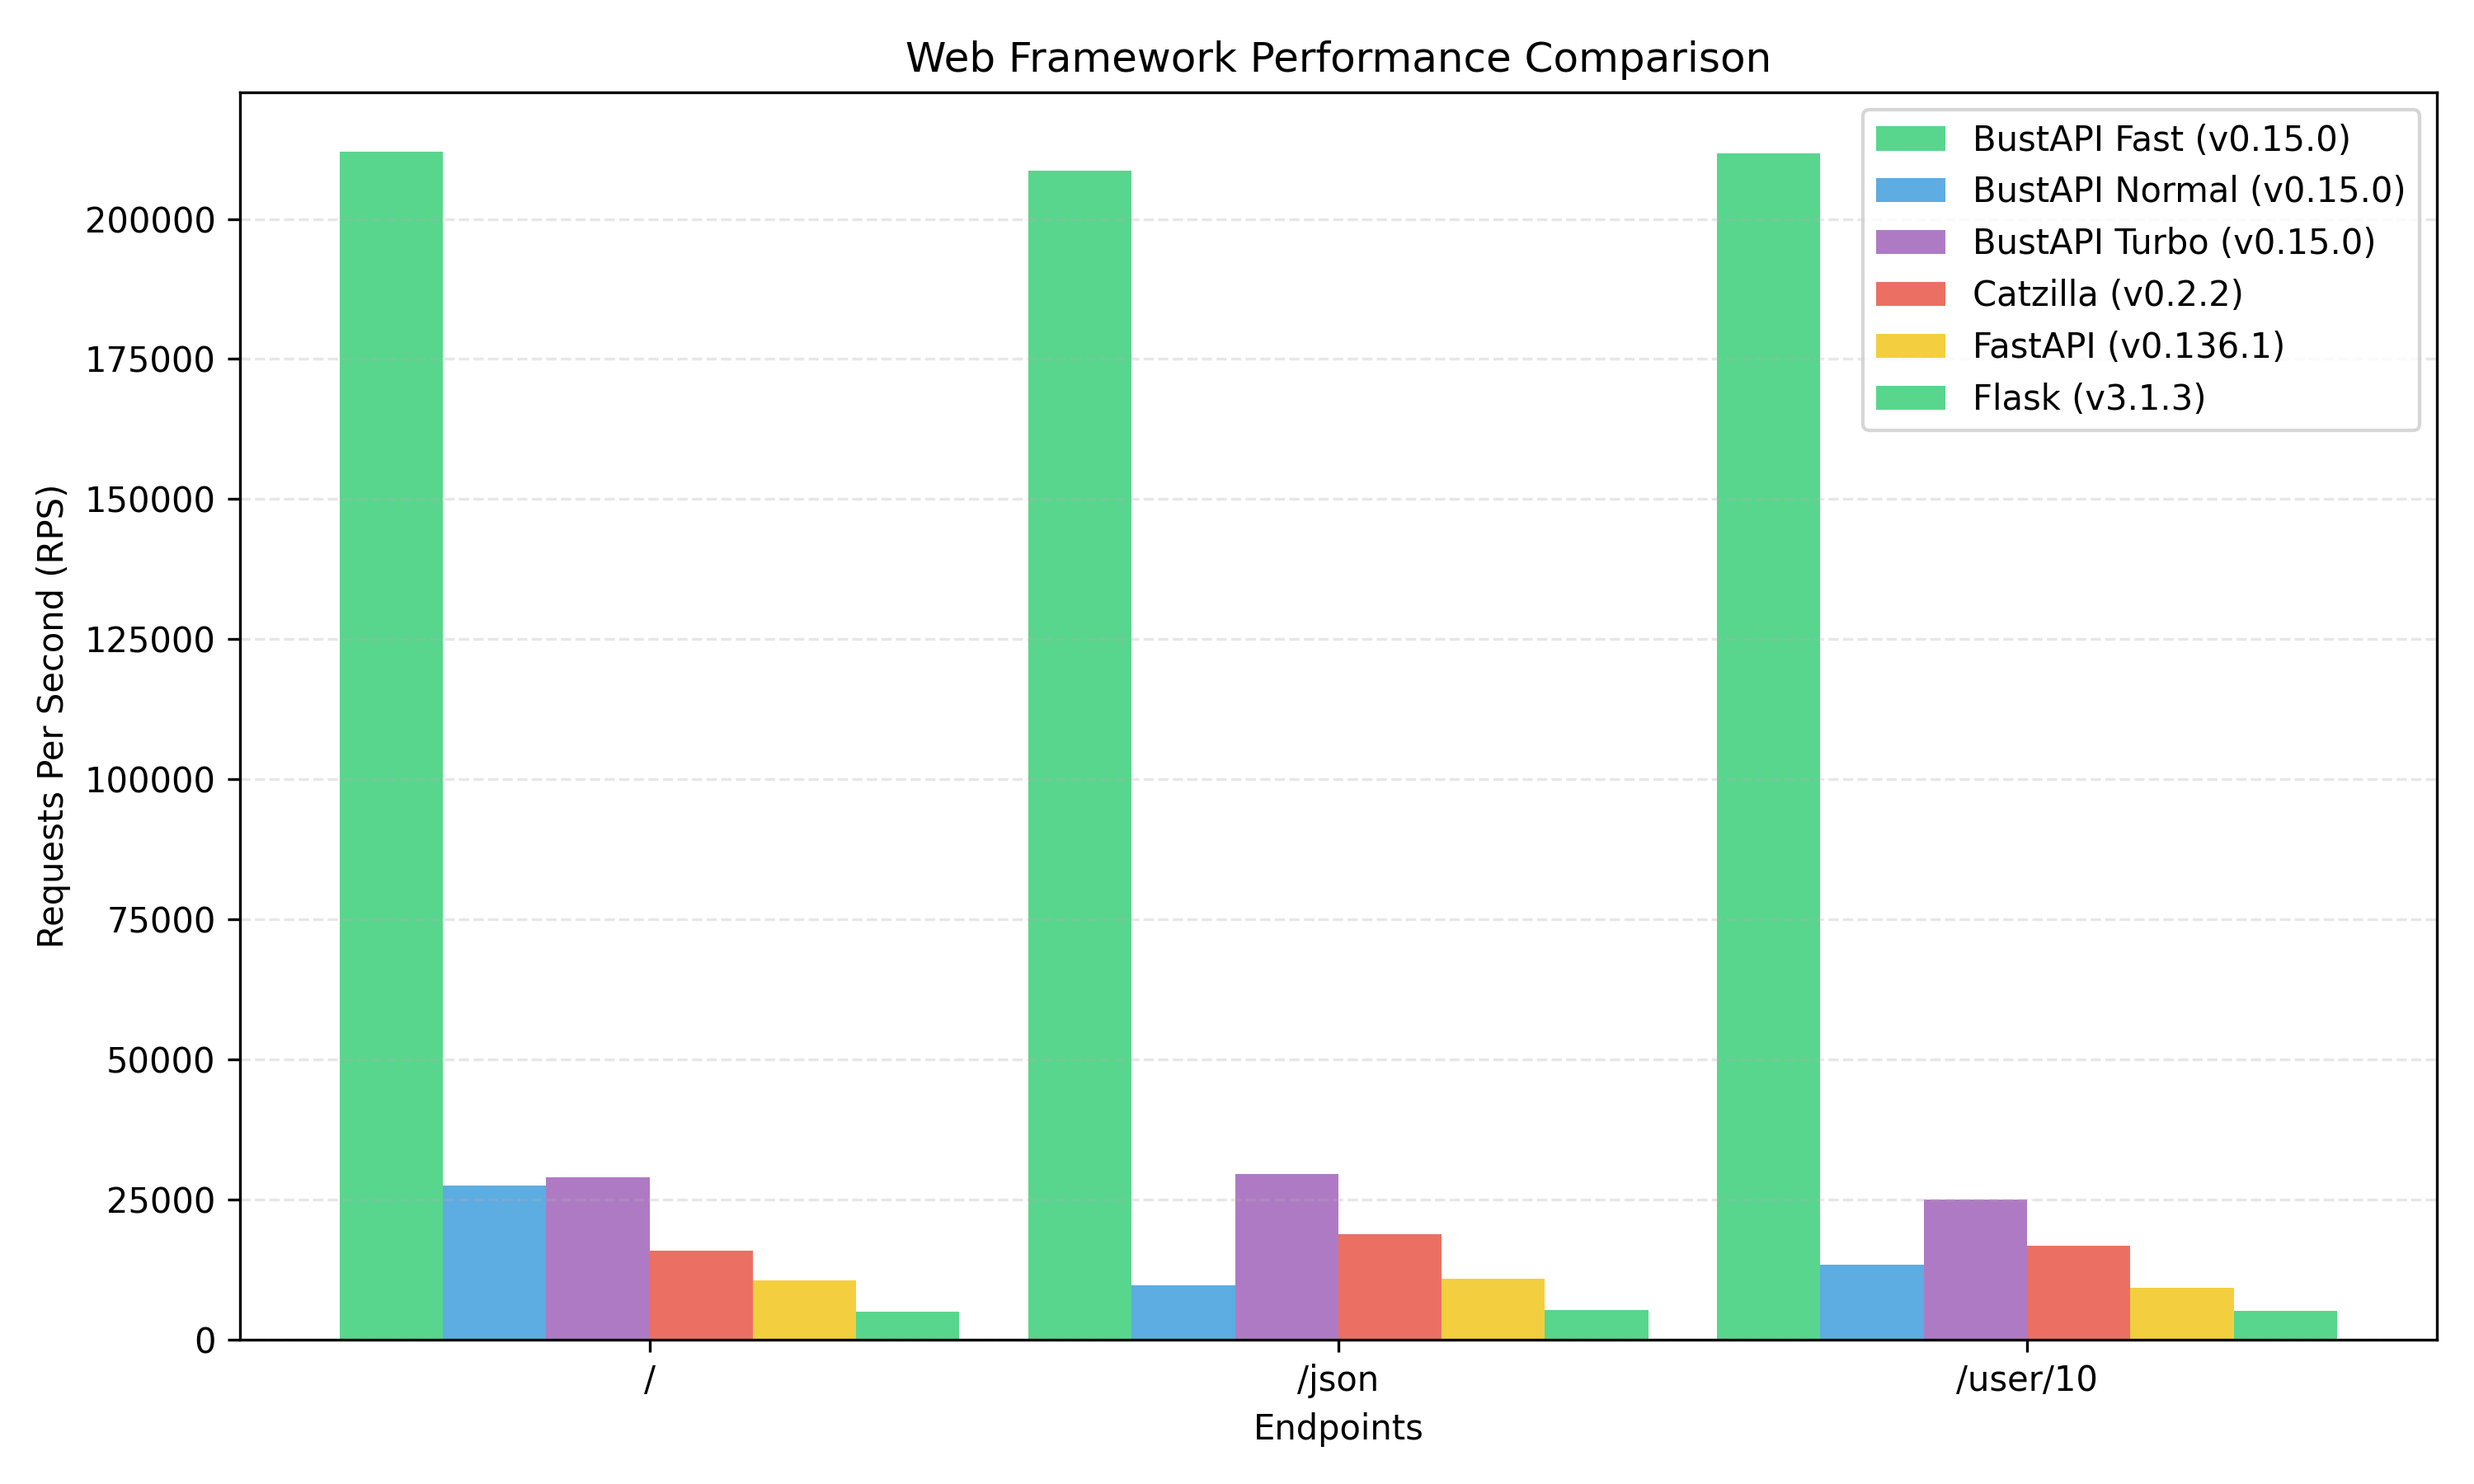
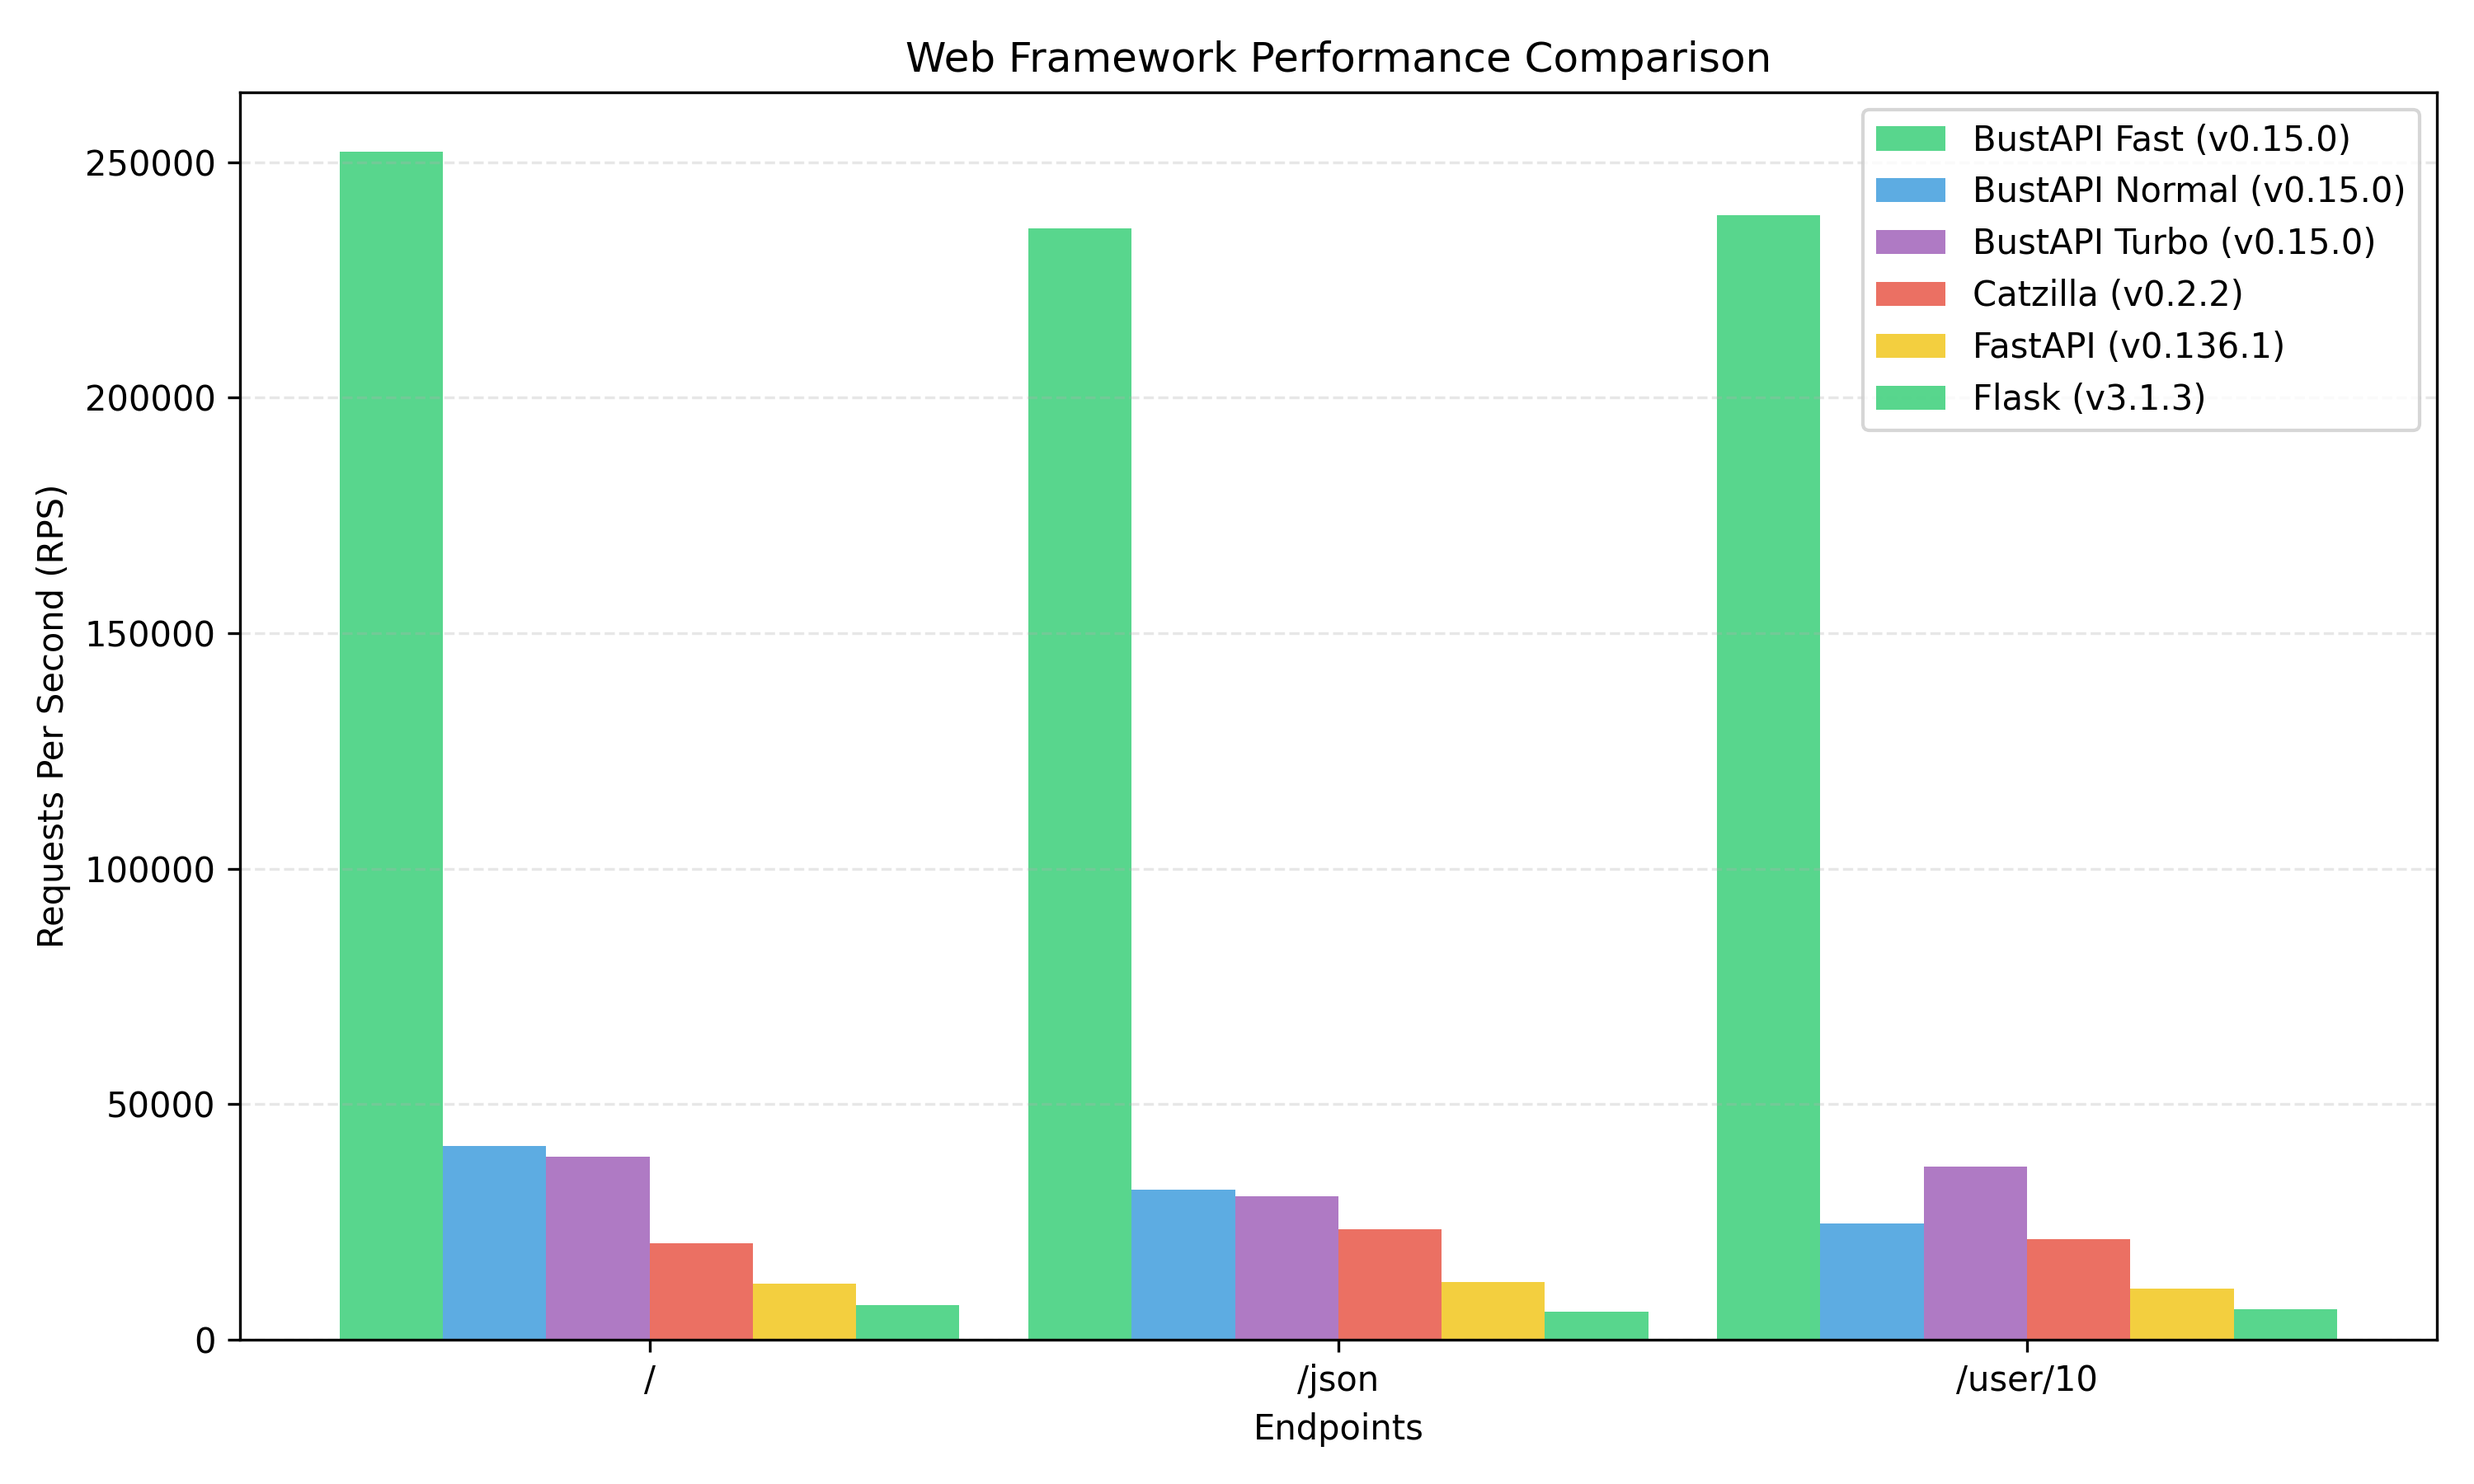
bench: add turbomax baseline and scaling test benchmarks

diff --git a/benchmarks/run_turbomax_baseline.py b/benchmarks/run_turbomax_baseline.py
@@ -3,75 +3,56 @@ import time
 import requests
 import os
 import signal
+import sys
 
-# 1. Start the app
-print("Starting Turbomax App...")
-app_process = subprocess.Popen([".venv/bin/python", "benchmarks/turbomax_app.py"], stdout=subprocess.DEVNULL, stderr=subprocess.DEVNULL)
-time.sleep(2) # wait for app to start
+# Turbomax Benchmark Runner v2.0
+print("Starting Turbomax App (Optimized)...")
+env = os.environ.copy()
+env["PYTHONPATH"] = "."
+app_process = subprocess.Popen(
+    [sys.executable, "benchmarks/turbomax_app.py"], 
+    stdout=subprocess.DEVNULL, 
+    stderr=subprocess.DEVNULL,
+    env=env
+)
+time.sleep(2)
 
 try:
-    # 2. Get JWT token
-    print("Logging in to get JWT token...")
+    print("Authenticating...")
     session = requests.Session()
+    resp = session.post("http://127.0.0.1:8080/login")
     
-    # Retry mechanism
-    max_retries = 10
-    resp = None
-    for i in range(max_retries):
-        try:
-            resp = session.post("http://127.0.0.1:8080/login")
-            break
-        except requests.exceptions.ConnectionError:
-            print(f"Waiting for app to start... (Attempt {i+1}/{max_retries})")
-            time.sleep(1)
-            
-    if not resp:
-        raise Exception("Failed to connect to app")
+    if not resp.ok:
+        raise Exception(f"Login failed: {resp.status_code}")
         
     cookies = resp.cookies.get_dict()
     cookie_header = "; ".join([f"{k}={v}" for k, v in cookies.items()])
-    print(f"Cookie: {cookie_header}")
+    print(f"Authentication successful. Token acquired.")
+
+    def run_wrk(name, url):
+        print(f"\n>>> Running Benchmark: {name}")
+        print(f"Target: {url}")
+        wrk_cmd = [
+            "wrk", "-t2", "-c10", "-d15s",
+            "-H", f"Cookie: {cookie_header}",
+            url
+        ]
+        res = subprocess.run(wrk_cmd, capture_output=True, text=True)
+        print(res.stdout)
+        return f"\n=== {name} ===\n{res.stdout}"
 
     results = []
-
-    # 3a. Run wrk on /api/business_logic (jsonify route)
-    print("\n=== Route 1: /api/business_logic (jsonify) ===")
-    wrk_cmd = [
-        "wrk",
-        "-t2",
-        "-c10",
-        "-d20s",
-        "-H", f"Cookie: {cookie_header}",
-        "http://127.0.0.1:8080/api/business_logic?sort_by=name"
-    ]
-    result = subprocess.run(wrk_cmd, capture_output=True, text=True)
-    print(result.stdout)
-    results.append("=== Route 1: /api/business_logic (jsonify) ===\n")
-    results.append(result.stdout)
-
-    # 3b. Run wrk on /api/business_logic_raw (raw dict)
-    print("\n=== Route 2: /api/business_logic_raw (raw dict → Rust serialization) ===")
-    wrk_cmd = [
-        "wrk",
-        "-t2",
-        "-c10",
-        "-d20s",
-        "-H", f"Cookie: {cookie_header}",
-        "http://127.0.0.1:8080/api/business_logic_raw?sort_by=name"
-    ]
-    result = subprocess.run(wrk_cmd, capture_output=True, text=True)
-    print(result.stdout)
-    results.append("\n=== Route 2: /api/business_logic_raw (raw dict → Rust serialization) ===\n")
-    results.append(result.stdout)
+    # Test Route 1
+    results.append(run_wrk("Route 1: jsonify (Deferred Serialization)", "http://127.0.0.1:8080/api/business_logic?sort_by=name"))
     
-    # 4. Save results
-    os.makedirs("benchmarks", exist_ok=True)
+    # Test Route 2
+    results.append(run_wrk("Route 2: raw dict (Zero-Copy Rust Serialization)", "http://127.0.0.1:8080/api/business_logic_raw?sort_by=name"))
+    
     with open("benchmarks/turbomax_baseline.txt", "w") as f:
         f.writelines(results)
-    print("Saved results to benchmarks/turbomax_baseline.txt")
+    print("\n✅ All results saved to benchmarks/turbomax_baseline.txt")
 
 finally:
-    # 5. Kill app
-    print("Cleaning up app...")
+    print("Shutting down app...")
     app_process.send_signal(signal.SIGINT)
     app_process.wait()

diff --git a/benchmarks/run_scaling_test.py b/benchmarks/run_scaling_test.py
@@ -1,0 +1,48 @@
+import subprocess
+import time
+import requests
+import os
+import signal
+import sys
+
+# Multiprocess Scaling Test
+workers = 4
+print(f"Starting Turbomax App with {workers} workers (SO_REUSEPORT)...")
+env = os.environ.copy()
+env["PYTHONPATH"] = "."
+app_process = subprocess.Popen(
+    [sys.executable, "benchmarks/turbomax_app_multi.py"], 
+    stdout=subprocess.PIPE, 
+    stderr=subprocess.PIPE,
+    env=env,
+    text=True
+)
+
+# Wait for banner to appear to ensure all processes started
+time.sleep(5)
+
+try:
+    print("Authenticating...")
+    session = requests.Session()
+    resp = session.post("http://127.0.0.1:8080/login")
+    
+    if not resp.ok:
+        raise Exception(f"Login failed: {resp.status_code}")
+        
+    cookies = resp.cookies.get_dict()
+    cookie_header = "; ".join([f"{k}={v}" for k, v in cookies.items()])
+    print(f"Authentication successful.")
+
+    print(f"\n>>> Running Benchmark: 4 Workers (SO_REUSEPORT)")
+    wrk_cmd = [
+        "wrk", "-t4", "-c100", "-d10s",
+        "-H", f"Cookie: {cookie_header}",
+        "http://127.0.0.1:8080/api/business_logic_raw?sort_by=name"
+    ]
+    res = subprocess.run(wrk_cmd, capture_output=True, text=True)
+    print(res.stdout)
+
+finally:
+    print("Shutting down...")
+    app_process.terminate()
+    app_process.wait()

diff --git a/benchmarks/turbomax_app_multi.py b/benchmarks/turbomax_app_multi.py
@@ -1,0 +1,48 @@
+import os
+from bustapi import BustAPI, request, jsonify
+from bustapi.jwt import JWT, jwt_required
+
+app = BustAPI()
+app.secret_key = "turbomax_super_secret_key_for_testing"
+
+jwt = JWT(
+    app,
+    token_location=["cookies", "headers"],
+    access_cookie_name="access_token"
+)
+
+# Mock DB
+MOCK_DB = {
+    "user_123": {
+        "id": "user_123",
+        "name": "Grandpa",
+        "role": "admin"
+    }
+}
+
+@app.route("/login", methods=["POST"])
+def login():
+    request.session["visits"] = 1
+    token = jwt.create_access_token(identity="user_123")
+    resp = jsonify({"msg": "Logged in"})
+    jwt.set_access_cookies(resp, token)
+    return resp
+
+@app.route("/api/business_logic_raw", methods=["GET"])
+@jwt_required
+def business_logic_raw():
+    visits = request.session.get("visits", 0)
+    request.session["visits"] = visits + 1
+    user_id = request.jwt_identity
+    user = MOCK_DB.get(user_id, {"id": "unknown", "name": "Guest"})
+    sort_by = request.args.get("sort_by", "date")
+    return {
+        "status": "success",
+        "user": user,
+        "visits": visits,
+        "sort_by": sort_by
+    }
+
+if __name__ == "__main__":
+    # Start with 4 processes
+    app.run(host="0.0.0.0", port=8080, workers=4, debug=False)

diff --git a/benchmarks/README.md b/benchmarks/README.md
@@ -12,26 +12,26 @@
 
 | Endpoint | Metrics | BustAPI Fast (v0.15.0) (1w) | BustAPI Turbo (v0.15.0) (1w) | BustAPI Normal (v0.15.0) (1w) | Catzilla (v0.2.2) (1w) | Flask (v3.1.3) (4w) | FastAPI (v0.136.1) (4w) |
 | :--- | :--- | :---: | :---: | :---: | :---: | :---: | :---: |
-| **`/`** | 🚀 RPS | 🥇 **211,984** | **28,932** | **27,499** | **15,933** | **5,087** | **10,660** |
-|  | ⏱ Avg Latency | 0.80ms | 3.45ms | 3.90ms | 9.33ms | 19.61ms | 10.11ms |
-|  | 📉 Max Latency | 34.52ms | 14.72ms | 39.41ms | 363.47ms | 76.77ms | 108.23ms |
-|  | 📦 Transfer | 24.46 MB/s | 3.56 MB/s | 3.41 MB/s | 2.23 MB/s | 0.81 MB/s | 1.49 MB/s |
-|  | 🔥 CPU Usage | 396% | 201% | 206% | 96% | 454% | 502% |
-|  | 🧠 RAM Usage | 55.9 MB | 56.4 MB | 56.1 MB | 30.5 MB | 160.6 MB | 250.4 MB |
+| **`/`** | 🚀 RPS | 🥇 **252,196** | **38,846** | **41,167** | **20,498** | **7,323** | **11,953** |
+|  | ⏱ Avg Latency | 0.64ms | 2.58ms | 2.45ms | 5.23ms | 13.53ms | 8.48ms |
+|  | 📉 Max Latency | 21.45ms | 18.34ms | 23.90ms | 151.21ms | 29.21ms | 55.31ms |
+|  | 📦 Transfer | 29.10 MB/s | 4.78 MB/s | 5.10 MB/s | 2.87 MB/s | 1.16 MB/s | 1.68 MB/s |
+|  | 🔥 CPU Usage | 436% | 201% | 208% | 96% | 381% | 398% |
+|  | 🧠 RAM Usage | 55.9 MB | 56.1 MB | 55.9 MB | 30.6 MB | 161.6 MB | 250.6 MB |
 | | | --- | --- | --- | --- | --- | --- |
-| **`/json`** | 🚀 RPS | 🥇 **208,543** | **29,638** | **9,688** | **18,888** | **5,319** | **10,964** |
-|  | ⏱ Avg Latency | 0.71ms | 3.54ms | 11.05ms | 6.54ms | 18.62ms | 9.11ms |
-|  | 📉 Max Latency | 36.56ms | 34.98ms | 56.33ms | 236.13ms | 31.39ms | 46.63ms |
-|  | 📦 Transfer | 25.06 MB/s | 3.53 MB/s | 1.16 MB/s | 2.02 MB/s | 0.83 MB/s | 1.48 MB/s |
-|  | 🔥 CPU Usage | 401% | 201% | 140% | 96% | 375% | 400% |
-|  | 🧠 RAM Usage | 53.7 MB | 54.3 MB | 54.0 MB | 30.5 MB | 160.7 MB | 252.2 MB |
+| **`/json`** | 🚀 RPS | 🥇 **235,900** | **30,393** | **31,881** | **23,524** | **5,920** | **12,269** |
+|  | ⏱ Avg Latency | 0.66ms | 3.32ms | 3.12ms | 4.39ms | 16.78ms | 8.17ms |
+|  | 📉 Max Latency | 19.86ms | 11.69ms | 11.46ms | 110.25ms | 39.99ms | 34.98ms |
+|  | 📦 Transfer | 28.35 MB/s | 3.62 MB/s | 3.80 MB/s | 2.51 MB/s | 0.92 MB/s | 1.66 MB/s |
+|  | 🔥 CPU Usage | 428% | 196% | 173% | 96% | 367% | 395% |
+|  | 🧠 RAM Usage | 53.8 MB | 53.7 MB | 54.1 MB | 30.6 MB | 161.7 MB | 252.2 MB |
 | | | --- | --- | --- | --- | --- | --- |
-| **`/user/10`** | 🚀 RPS | 🥇 **211,768** | **25,056** | **13,381** | **16,720** | **5,177** | **9,354** |
-|  | ⏱ Avg Latency | 1.04ms | 4.42ms | 7.49ms | 6.17ms | 18.54ms | 10.91ms |
-|  | 📉 Max Latency | 128.99ms | 41.94ms | 23.89ms | 141.61ms | 38.24ms | 90.41ms |
-|  | 📦 Transfer | 24.84 MB/s | 2.92 MB/s | 1.57 MB/s | 2.34 MB/s | 0.79 MB/s | 1.24 MB/s |
-|  | 🔥 CPU Usage | 403% | 197% | 135% | 96% | 376% | 396% |
-|  | 🧠 RAM Usage | 53.8 MB | 54.3 MB | 54.3 MB | 30.5 MB | 160.7 MB | 252.9 MB |
+| **`/user/10`** | 🚀 RPS | 🥇 **238,697** | **36,839** | **24,700** | **21,431** | **6,438** | **10,890** |
+|  | ⏱ Avg Latency | 0.63ms | 2.71ms | 4.07ms | 5.12ms | 15.38ms | 9.28ms |
+|  | 📉 Max Latency | 26.68ms | 8.53ms | 15.00ms | 157.83ms | 28.53ms | 63.63ms |
+|  | 📦 Transfer | 28.00 MB/s | 4.29 MB/s | 2.87 MB/s | 3.00 MB/s | 0.98 MB/s | 1.44 MB/s |
+|  | 🔥 CPU Usage | 439% | 198% | 158% | 97% | 741% | 401% |
+|  | 🧠 RAM Usage | 54.0 MB | 53.7 MB | 54.4 MB | 30.6 MB | 161.7 MB | 253.3 MB |
 | | | --- | --- | --- | --- | --- | --- |
 
 ## 📊 Performance Comparison
